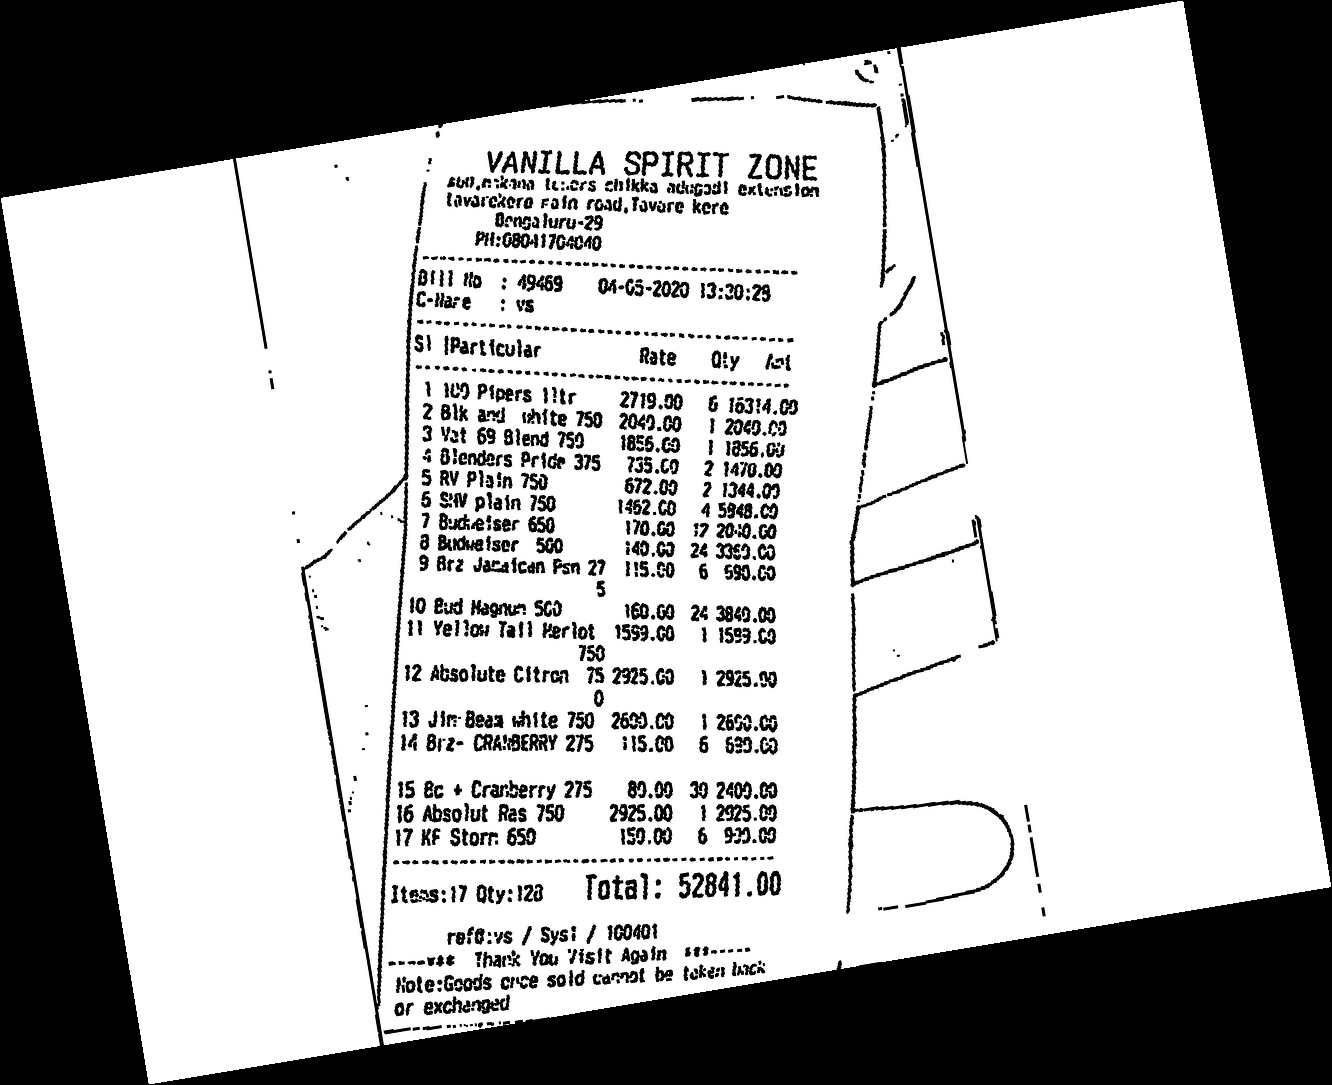
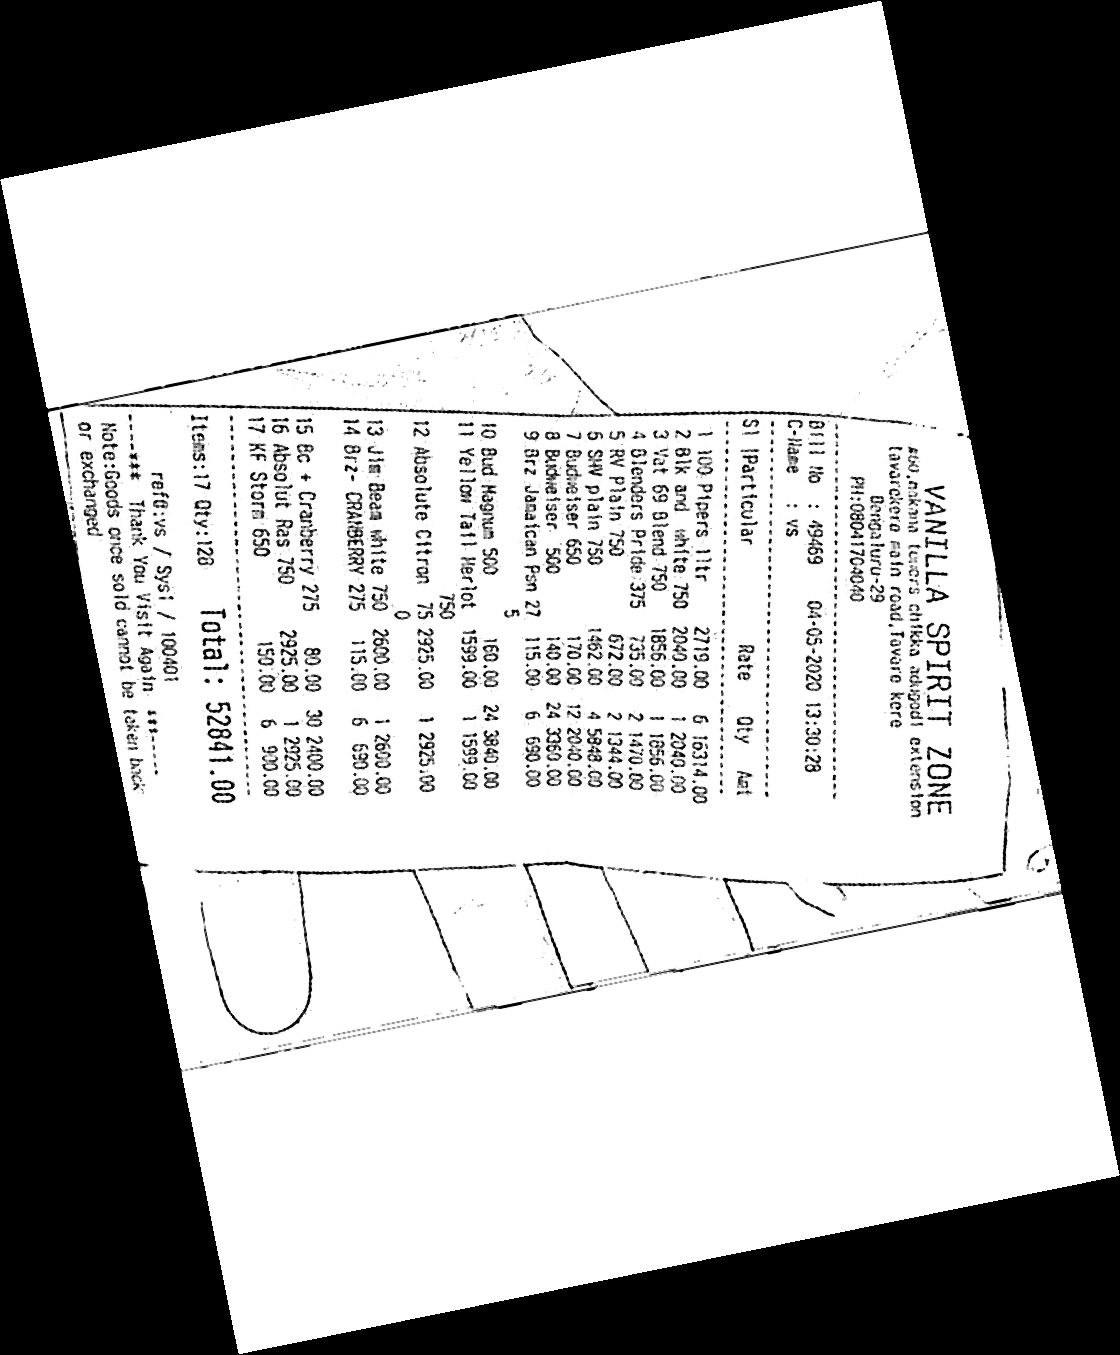
Improve preprocessing

Changed region(s): [[0.0, 0.0, 1.0, 1.0], [0.7188, 0.6387, 0.7812, 0.6995], [0.1875, 0.73, 0.2188, 0.7604]]

diff --git a/python/OCR/ocr_bills/test_ocr_bills.py b/python/OCR/ocr_bills/test_ocr_bills.py
@@ -24,14 +24,24 @@ def thick_font(image):
 
     image = cv2.bitwise_not(image)
     kernel = np.ones((2, 2), np.uint8)
-    image = cv2.dilate(image, kernel, iterations=1)
+    image = cv2.dilate(image, kernel, iterations=3)
     image = cv2.bitwise_not(image)
     return image
+
+def thin_font(image):
+    import numpy as np
+    image = cv2.bitwise_not(image)
+    kernel = np.ones((2,2),np.uint8)
+    image = cv2.erode(image, kernel, iterations=3)
+    image = cv2.bitwise_not(image)
+    return (image)
 
 
 pre = Preprocessor("Bill3.jpg")
 
 img = pre.scan(save=True)
+
+orig = img.copy()
 img = noise_removal(img)
 
 img = thick_font(img)
@@ -50,40 +60,45 @@ lines = cv2.HoughLinesP(
 angles = []
 for [[x1, y1, x2, y2]] in lines:
     # drawing Hough lines
-    angle = 90 + math.degrees(math.atan2(y2 - y1, x2 - x1))
+    angle = math.degrees(math.atan2(y2 - y1, x2 - x1))
     angles.append(angle)
 
 # median angle
 median_angle = np.median(angles)
-print(median_angle)
+
 # actual rotate
-img = ndimage.rotate(img, median_angle)
+img = ndimage.rotate(orig, median_angle)
+# img = noise_removal(img)
 
-cv2.imwrite("rotated.png", img)
+cv2.imwrite("rotated1.png", img)
 
-tesseract_location = r"D:\Saransh\Softwares\Tesseract-OCR\tesseract.exe"
+# img = thin_font(img)
 
-pytesseract.pytesseract.tesseract_cmd = tesseract_location
+# cv2.imwrite("processed.png", img)
 
-# reading the image
-img = cv2.imread("rotated.png")
+# tesseract_location = r"D:\Saransh\Softwares\Tesseract-OCR\tesseract.exe"
 
-# extracting the text
-text = pytesseract.image_to_string(img, config="-l eng --oem 1 --psm 11")
-print(text)
+# pytesseract.pytesseract.tesseract_cmd = tesseract_location
 
-# adding boxes around the words
-boxes = pytesseract.image_to_data(img)
-for z, box in enumerate(boxes.splitlines()):
-    if z != 0:
-        box = box.split()
+# # reading the image
+# img = cv2.imread("rotated.png")
 
-        # if the data has a word
-        if len(box) == 12:
+# # extracting the text
+# text = pytesseract.image_to_string(img, config="-l eng --oem 1 --psm 11")
+# print(text)
 
-            x, y = int(box[6]), int(box[7])
-            h, w = int(box[8]), int(box[9])
+# # adding boxes around the words
+# boxes = pytesseract.image_to_data(img)
+# for z, box in enumerate(boxes.splitlines()):
+#     if z != 0:
+#         box = box.split()
 
-            cv2.rectangle(img, (x, y), (x + h, y + w), (0, 0, 255), 1)
+#         # if the data has a word
+#         if len(box) == 12:
 
-cv2.imwrite("OCR.png", img)
+#             x, y = int(box[6]), int(box[7])
+#             h, w = int(box[8]), int(box[9])
+
+#             cv2.rectangle(img, (x, y), (x + h, y + w), (0, 0, 255), 1)
+
+# cv2.imwrite("OCR.png", img)
